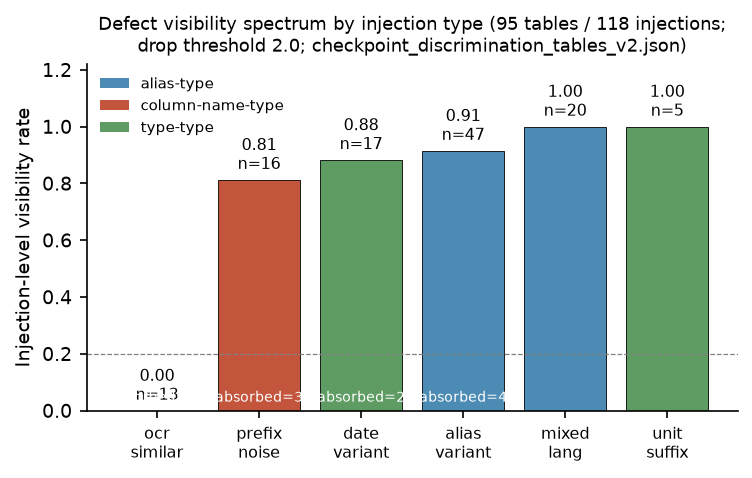
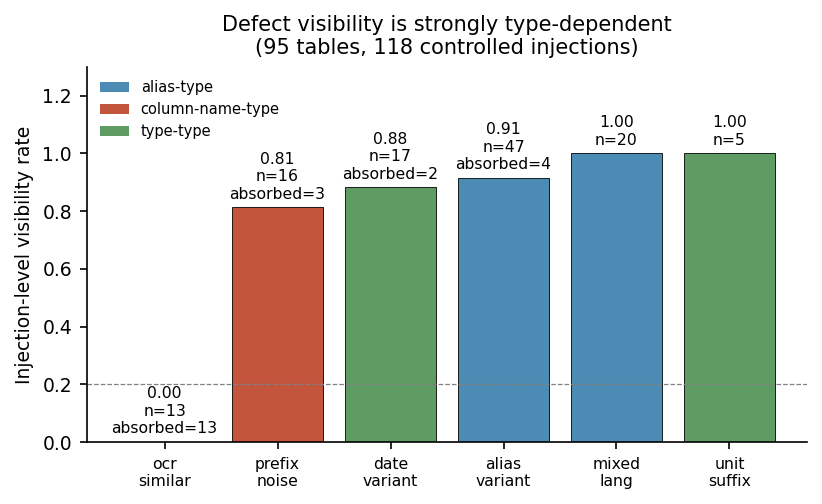
fix(paper): Office 视觉验收发现的 3 处缺陷修复（公式、表格跨页、图注被吞）
对小论文与叙事两份导师 DOCX 做 Office 视觉验收（GB10 用 soffice 转 PDF + pdftoppm 出图，
逐页目视），发现三处缺陷并修复。

D3 公式以原始 LaTeX 呈现（缺陷最明显）：builder 把 \[...\] 内的行原样当正文输出，
页面上出现 `S(n)=\sum_{c\in C(n)} \frac{w(c)}{...}` 与 `\Gamma=\{0.2,...\}` 这样的源码。
新增 render_math()：只翻译本稿件实际用到的构造（\frac 用配对花括号解析括号化，
\sum/\prod/\int 带下标、转义花括号与百分号、间距命令、希腊字母与常用符号），
未识别的命令原样保留 —— 宁可显示源码也不静默译错。两条公式现渲染为
`S(n)=Σ_{c∈ C(n)} (w(c))/(Σ_{j∈ C(n)}w(j))S(c).` 与 `Γ={0.2,0.3,0.5,0.7,0.9}.`。

D2 表格行跨页被切断：Table 1 的 Flat 行在页边界处被拆开，续页碎片的前两列为空，
读起来像坏表。新增 prevent_row_split() 给每个 tr 加 w:cantSplit，并接到三处建表
（Markdown 表、三阶段表、SVG 替代表）。

D1 图注被吞：Figure 2 的 absorbed 标注用白字画在柱内，前缀/日期/别名三根柱的下半被吞，
而 ocr-similar 柱高为 0 ⇒ 白字落在白底上完全不可见，等于把「13 例全部被静默吸收」这一
论文关键事实从图里抹掉了。改为把 absorbed 并入柱顶标签、ylim 1.16 → 1.30，
四根柱的 absorbed 现全部可读（3 / 2 / 4 / 13）。

生成位置声明（纪律偏差，如实申报）：图由本机生成，因 GB10 的仓库 venv 与系统 python3
均无 matplotlib；输入是仓内已跟踪的冻结件 logs/graph/eval/checkpoint_discrimination_tables_v2.json
（两侧字节相同），输出为演示用 PNG 且不在 scripts/graph/frozen_hashes.txt（18 项）之内。
本机 matplotlib 3.9.4 与原图生成版本可能不同，故新图样式（标题字号/图例）与原图略有差异，
且脚本当前标题与旧 PNG 的标题本就不同（旧 PNG 已与脚本脱节）——数据未变：
95 表 / 118 注入 / 各柱比率与 n 值与冻结件一致。

新增 tests/test_teacher_review_docx_rendering.py（4 例）：两条公式的逐字译法、未识别命令
保持可见、Markdown 表每行都带 cantSplit、以及经 build() 产出的 DOCX 内无残留 LaTeX 且
两条公式确实存在。

diff --git a/research/build_teacher_review_docx.py b/research/build_teacher_review_docx.py
@@ -23,6 +23,92 @@ from docx.shared import Cm, Inches, Pt, RGBColor
 REPO = Path(__file__).resolve().parents[1]
 SOURCE = REPO / "paper" / "teacher_review_draft_v1.md"
 OUTPUT = REPO / "paper" / "teacher_review_draft_v1.docx"
+MATH_GREEK = {
+    "alpha": "α", "beta": "β", "gamma": "γ", "Gamma": "Γ", "delta": "δ", "Delta": "Δ",
+    "epsilon": "ε", "varepsilon": "ε", "eta": "η", "theta": "θ", "Theta": "Θ", "iota": "ι",
+    "kappa": "κ", "lambda": "λ", "mu": "μ", "nu": "ν", "xi": "ξ", "pi": "π", "rho": "ρ",
+    "sigma": "σ", "tau": "τ", "phi": "φ", "chi": "χ", "psi": "ψ", "omega": "ω", "zeta": "ζ",
+}
+MATH_SYMBOLS = {
+    "sum": "Σ", "prod": "∏", "int": "∫", "in": "∈", "notin": "∉", "le": "≤", "leq": "≤",
+    "ge": "≥", "geq": "≥", "times": "×", "cdot": "·", "pm": "±", "mp": "∓",
+    "approx": "≈", "neq": "≠", "ne": "≠", "to": "→", "rightarrow": "→", "leftarrow": "←",
+    "mid": "|", "infty": "∞", "partial": "∂",
+}
+MATH_SPACING = (("\\,", " "), ("\\;", " "), ("\\:", " "), ("\\!", ""), ("\\ ", " "), ("\\quad", "  "))
+
+
+def _matching_brace(text: str, open_index: int) -> int:
+    """Index of the brace matching the one at `open_index`, or -1 when unbalanced."""
+    depth = 0
+    for position in range(open_index, len(text)):
+        if text[position] == "{":
+            depth += 1
+        elif text[position] == "}":
+            depth -= 1
+            if depth == 0:
+                return position
+    return -1
+
+
+def render_math(text: str) -> str:
+    """Translate the LaTeX constructs this manuscript uses into Unicode.
+
+    python-docx cannot typeset LaTeX, so passing formula source through verbatim puts
+    backslashes and command names in front of a reader. Only the constructs present in the
+    manuscript are translated; any unrecognised command is left untouched, so a new
+    construct degrades into visible source instead of being silently mistranslated.
+    """
+    out = text
+
+    # \frac{num}{den} -> (num)/(den); brace-matched so a denominator that itself contains
+    # `_{...}` is captured whole rather than truncated at the inner brace.
+    for _ in range(8):
+        match = re.search(r"\\frac\{", out)
+        if not match:
+            break
+        open_num = match.end() - 1
+        close_num = _matching_brace(out, open_num)
+        if close_num < 0 or close_num + 1 >= len(out) or out[close_num + 1] != "{":
+            break
+        close_den = _matching_brace(out, close_num + 1)
+        if close_den < 0:
+            break
+        out = (
+            out[: match.start()]
+            + "(" + out[open_num + 1:close_num] + ")/(" + out[close_num + 2:close_den] + ")"
+            + out[close_den + 1:]
+        )
+
+    for name in ("sum", "prod", "int"):
+        out = re.sub(
+            r"\\" + name + r"_\{([^{}]*)\}",
+            lambda m, symbol=MATH_SYMBOLS[name]: symbol + "_{" + m.group(1) + "}",
+            out,
+        )
+        out = re.sub(r"\\" + name + r"(?![A-Za-z])", MATH_SYMBOLS[name], out)
+
+    for source, target in (("\\{", "{"), ("\\}", "}"), ("\\%", "%"), ("\\_", "_"),
+                           ("\\&", "&"), ("\\#", "#")):
+        out = out.replace(source, target)
+    for source, target in MATH_SPACING:
+        out = out.replace(source, target)
+    for table in (MATH_GREEK, MATH_SYMBOLS):
+        for name in sorted(table, key=len, reverse=True):
+            out = re.sub(r"\\" + name + r"(?![A-Za-z])", table[name], out)
+    return re.sub(r"[ \t]{2,}", " ", out).strip()
+
+
+def prevent_row_split(table) -> None:
+    """Keep each row on one page.
+
+    A row that breaks across a page boundary leaves a continuation fragment whose leading
+    cells are empty, which reads as a malformed table. Word and LibreOffice both honour
+    the `w:cantSplit` row property.
+    """
+    for row in table.rows:
+        row._tr.get_or_add_trPr().append(OxmlElement("w:cantSplit"))
+
 
 
 def add_runs(paragraph, text: str) -> None:
@@ -93,6 +179,7 @@ def add_markdown_table(document: Document, rows: list[list[str]]) -> None:
                     run.bold = True
             for run in paragraph.runs:
                 run.font.size = Pt(8.5)
+    prevent_row_split(table)
 
 
 def add_three_stage_table(document: Document) -> None:
@@ -133,6 +220,7 @@ def add_three_stage_table(document: Document) -> None:
                     run.font.size = Pt(8.5)
                     if row_index in (0, 3):
                         run.bold = True
+    prevent_row_split(table)
     feedback = document.add_paragraph(
         "Target loop: accepted rules update the workflow and return to the same evaluation protocol."
     )
@@ -174,7 +262,7 @@ def build(source: Path = SOURCE, output: Path = OUTPUT) -> Path:
         if in_formula:
             paragraph = document.add_paragraph()
             paragraph.alignment = WD_ALIGN_PARAGRAPH.CENTER
-            run = paragraph.add_run(stripped)
+            run = paragraph.add_run(render_math(stripped))
             run.font.name = "Cambria Math"
             run.italic = True
             index += 1
@@ -225,6 +313,7 @@ def build(source: Path = SOURCE, output: Path = OUTPUT) -> Path:
                         run.bold = True
                     for cell in (head_cell, body_cell):
                         cell.vertical_alignment = WD_CELL_VERTICAL_ALIGNMENT.CENTER
+                prevent_row_split(table)
             elif image_path.name == "fig_evaluate_distill_evolve_v1.svg" and image_path.is_file():
                 add_three_stage_table(document)
             caption_paragraph = document.add_paragraph(caption)

diff --git a/tests/test_teacher_review_docx_rendering.py b/tests/test_teacher_review_docx_rendering.py
@@ -1,0 +1,43 @@
+"""Rendering-contract tests for the teacher-review DOCX builder.
+
+These cover two defects found in the 2026-09-25 Office visual pass: display formulas were
+emitted as raw LaTeX, and a table row could break across a page boundary mid-cell.
+"""
+from __future__ import annotations
+
+from docx import Document
+
+from research.build_teacher_review_docx import SOURCE, add_markdown_table, build, render_math
+
+FORMULA_S = r"S(n)=\sum_{c\in C(n)} \frac{w(c)}{\sum_{j\in C(n)}w(j)}S(c)."
+FORMULA_G = r"\Gamma=\{0.2,0.3,0.5,0.7,0.9\}."
+
+
+def test_render_math_translates_the_manuscript_formulas():
+    assert render_math(FORMULA_S) == "S(n)=\u03a3_{c\u2208 C(n)} (w(c))/(\u03a3_{j\u2208 C(n)}w(j))S(c)."
+    assert render_math(FORMULA_G) == "\u0393={0.2,0.3,0.5,0.7,0.9}."
+
+
+def test_render_math_leaves_unknown_commands_visible():
+    # An unrecognised command must survive so a new construct cannot be silently mangled.
+    assert render_math(r"\foobar{x}") == r"\foobar{x}"
+    assert render_math(r"\alpha \le \beta") == "\u03b1 \u2264 \u03b2"
+
+
+def test_markdown_table_rows_cannot_split_across_pages():
+    document = Document()
+    add_markdown_table(document, [["A", "B"], ["1", "2"], ["3", "4"]])
+    table = document.tables[0]
+    assert len(table.rows) == 3
+    for row in table.rows:
+        assert "cantSplit" in row._tr.xml
+
+
+def test_built_docx_has_no_raw_latex_and_keeps_the_formulas(tmp_path):
+    output = build(source=SOURCE, output=tmp_path / "rendered.docx")
+    paragraphs = [paragraph.text for paragraph in Document(output).paragraphs]
+    assert render_math(FORMULA_S) in paragraphs
+    assert render_math(FORMULA_G) in paragraphs
+    joined = "\n".join(paragraphs)
+    for leftover in ("\\sum", "\\frac", "\\Gamma", "\\in"):
+        assert leftover not in joined

diff --git a/research/paper_figures_draft.py b/research/paper_figures_draft.py
@@ -62,13 +62,14 @@ def fig_visibility_spectrum() -> str:
     fig, ax = plt.subplots(figsize=(6.2, 3.25))
     bars = ax.bar(range(len(names)), rates, color=colors, edgecolor="black", linewidth=0.4)
     for i, (r, n, a) in enumerate(zip(rates, ns, absorbed)):
-        ax.text(i, r + 0.02, f"{r:.2f}\nn={n}", ha="center", va="bottom", fontsize=7.5)
-        if a:
-            ax.text(i, 0.02, f"absorbed={a}", ha="center", va="bottom", fontsize=6.5, color="white")
+        # White text drawn inside a bar was unreadable: the label sat on the bar fill and
+        # its lower half was lost. Keep every figure number in the label above the bar.
+        label = f"{r:.2f}\nn={n}" + (f"\nabsorbed={a}" if a else "")
+        ax.text(i, r + 0.02, label, ha="center", va="bottom", fontsize=7.5)
     ax.axhline(0.2, color="grey", lw=0.6, ls="--")
     ax.set_xticks(range(len(names)))
     ax.set_xticklabels([n.replace("_", "\n") for n in names], fontsize=7.5)
-    ax.set_ylim(0, 1.16)
+    ax.set_ylim(0, 1.30)
     ax.set_ylabel("Injection-level visibility rate")
     ax.set_title("Defect visibility is strongly type-dependent\n"
                  "(95 tables, 118 controlled injections)", fontsize=10)
